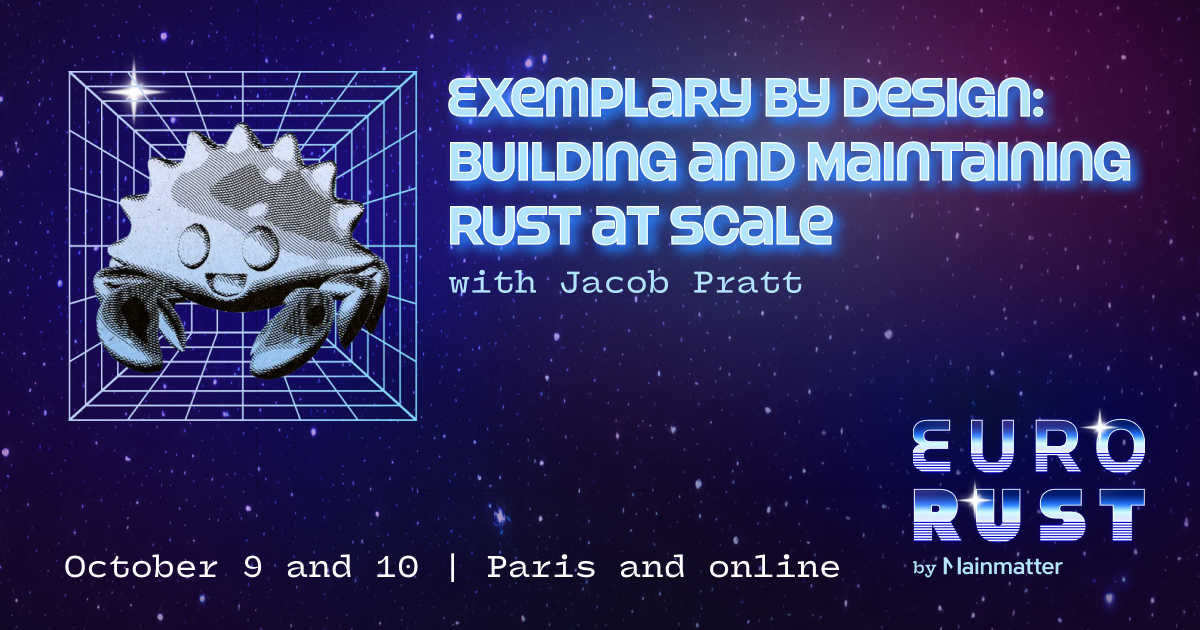
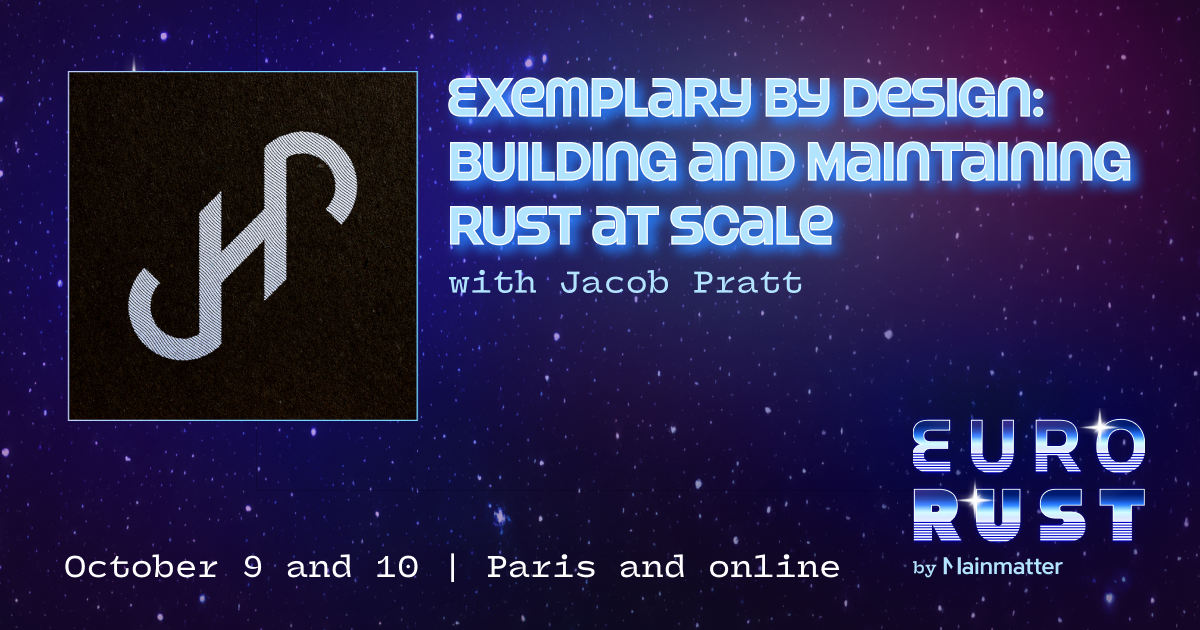
add(schedule): jacob

Changed region(s): [[0.0308, 0.0905, 0.37, 0.6937]]

diff --git a/content/speakers/jacob-pratt.md b/content/speakers/jacob-pratt.md
@@ -4,7 +4,7 @@ title = "Speaker: Jacob Pratt"
 [extra]
   name = "Jacob Pratt"
   url = "https://jhpratt.dev"
-  image = ""
+  image = "/images/talks/jacob-pratt.webp"
   twitter = ""
   github = "https://github.com/jhpratt"
   mastodon = ""
